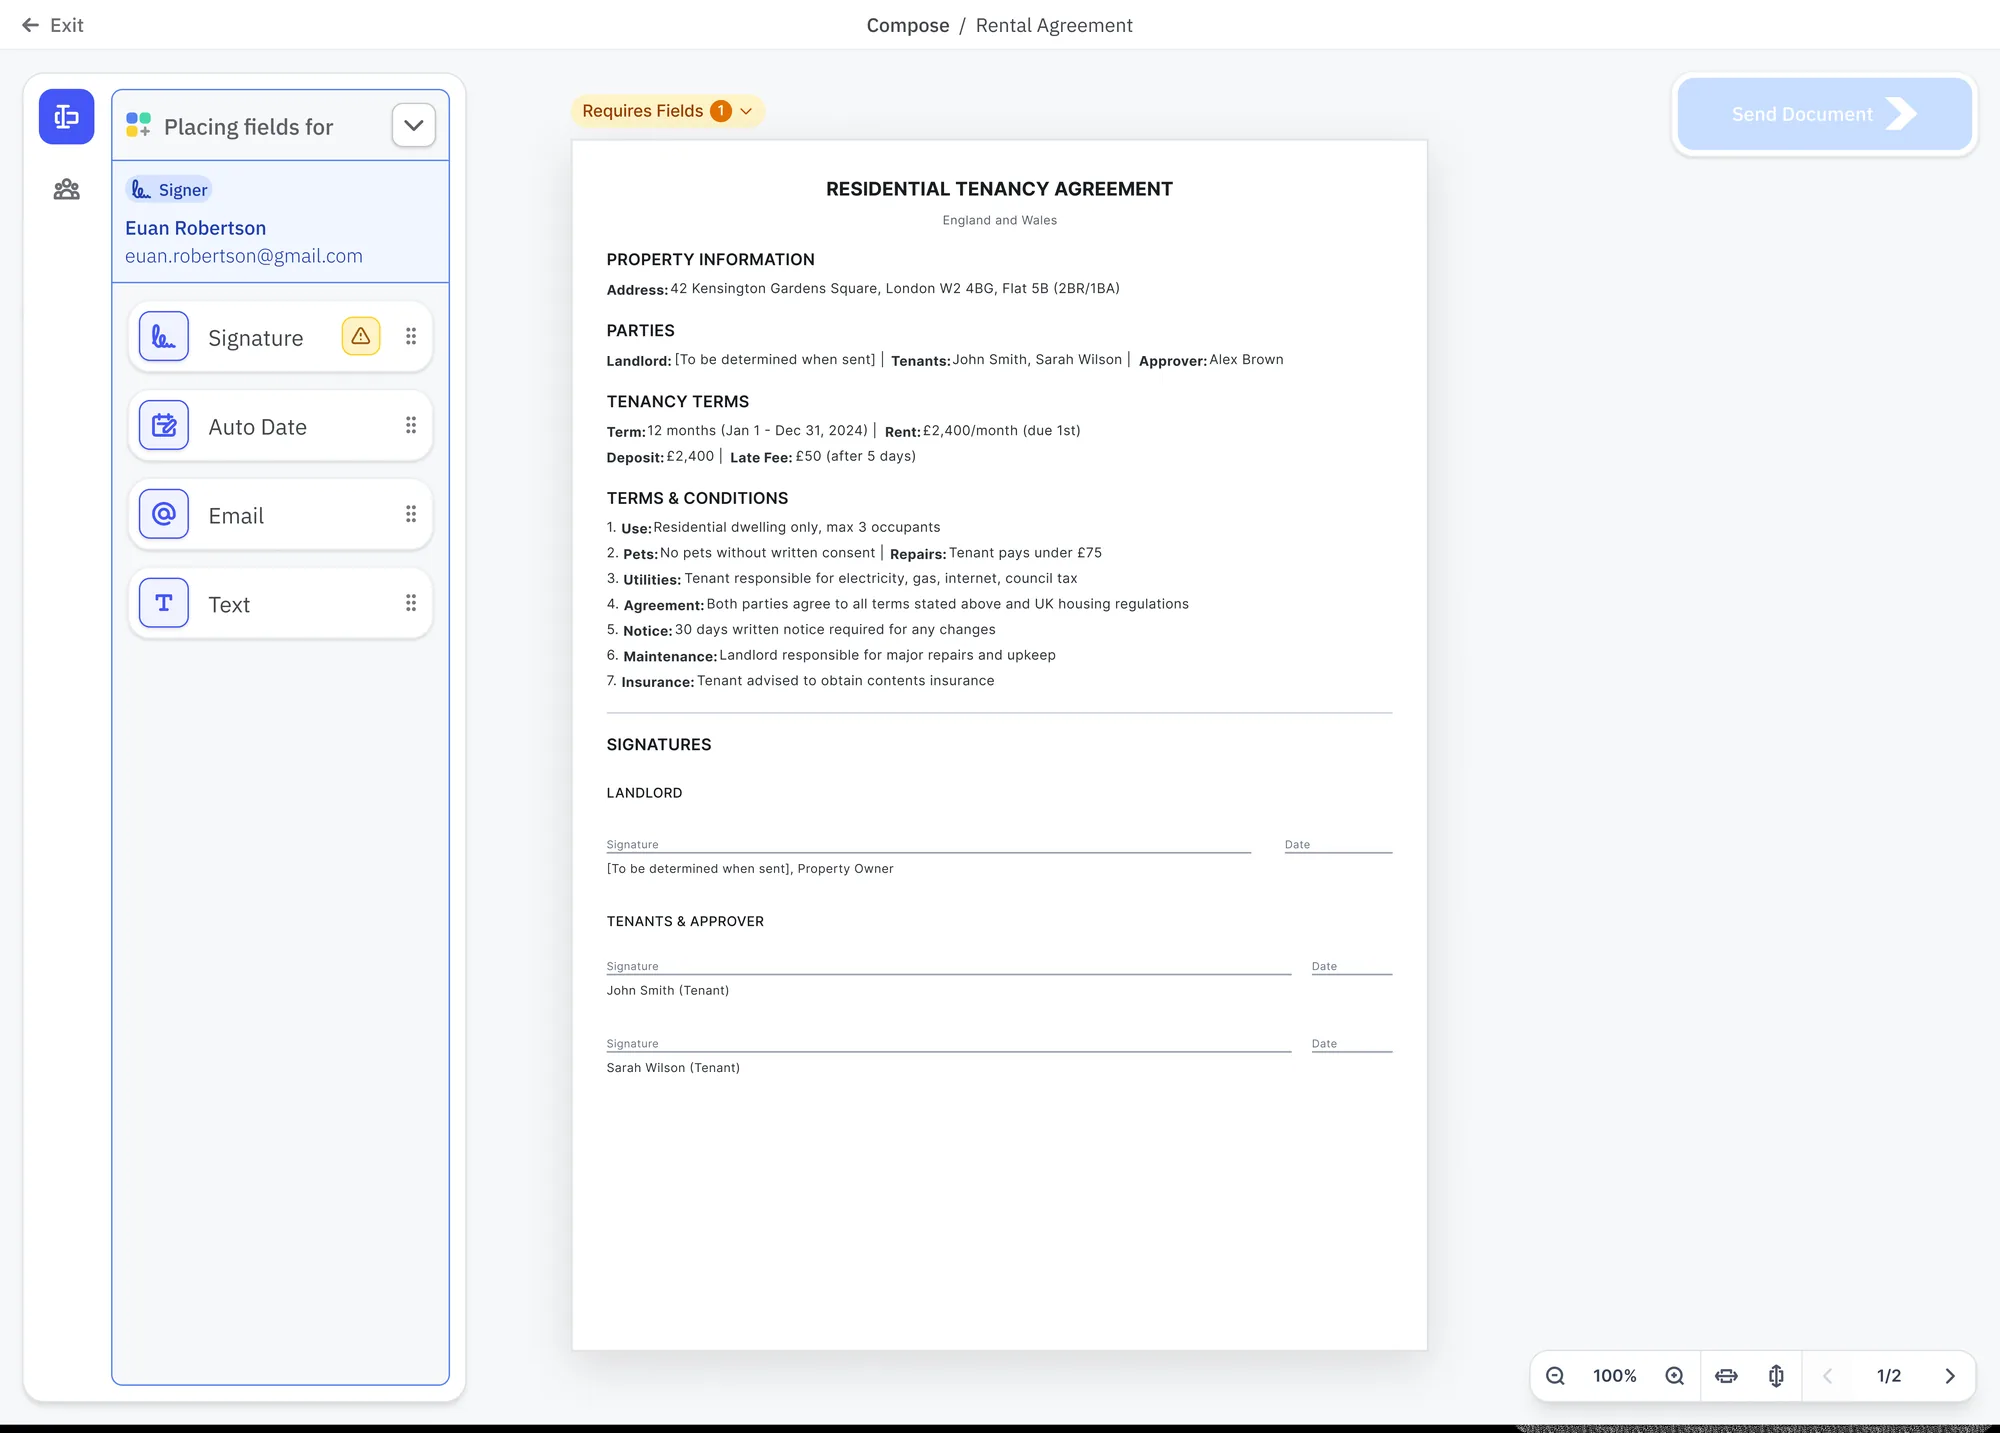
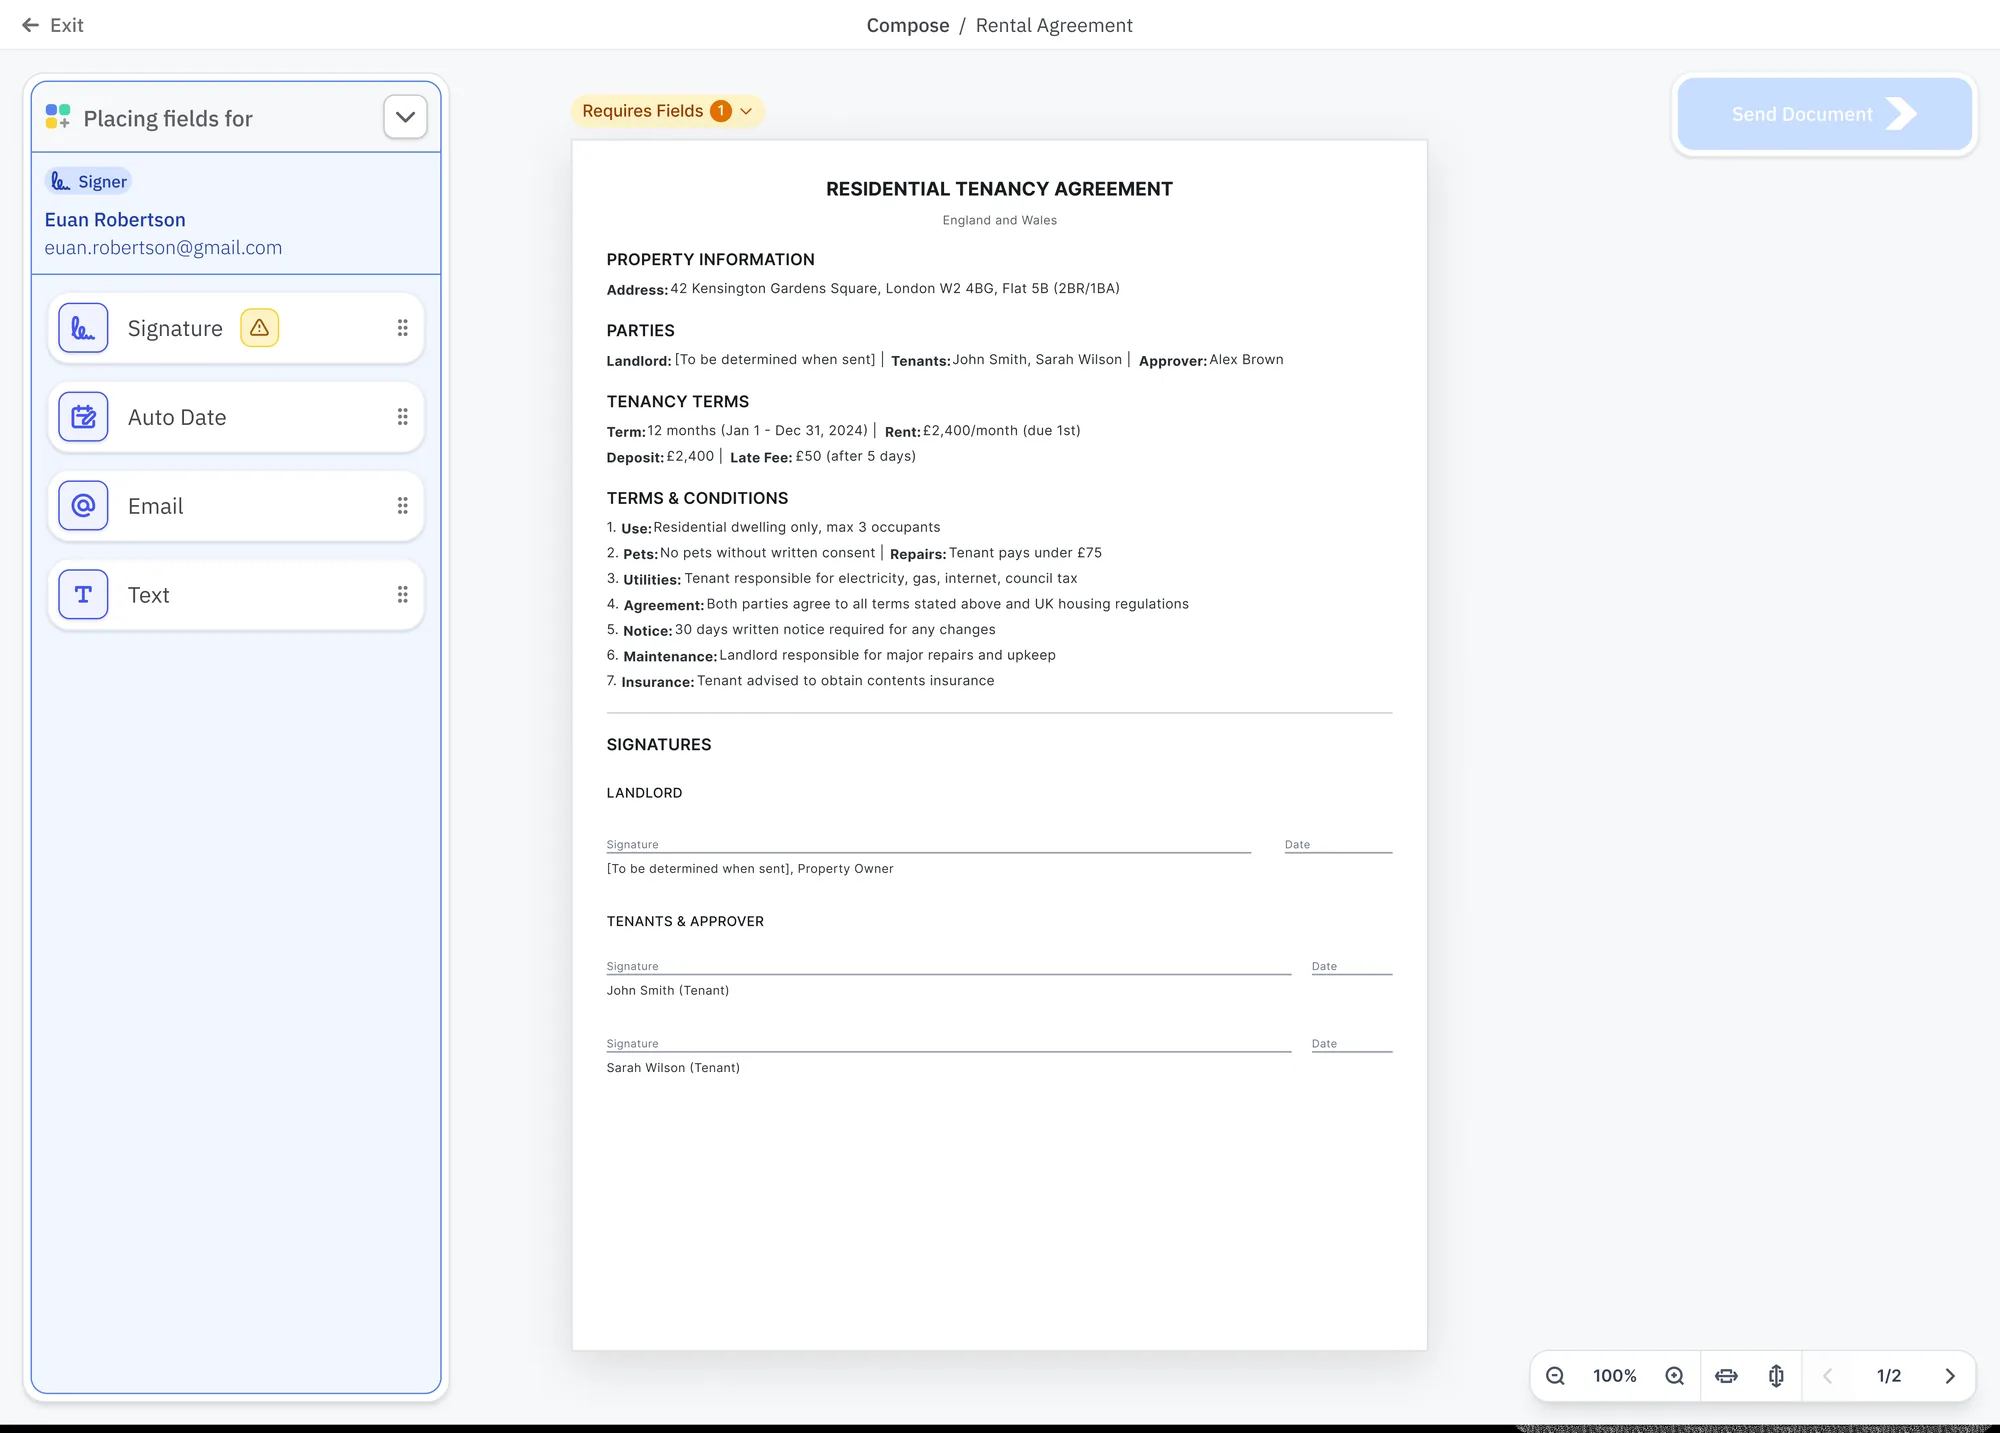
Remove Quick Send version 20, leaving 23 screens
Claude-Session: https://claude.ai/code/session_014sezJqAyiVMuUZgAteEGKh

Changed region(s): [[0.0, 0.0614, 0.217, 0.4606], [0.062, 0.9518, 0.217, 0.9826]]

diff --git a/src/process.ts b/src/process.ts
@@ -32,7 +32,7 @@ export type Stage = {
 };
 
 // What each Quick Send version changed, keyed by version number (1 is the
-// oldest, 24 the final design). Versions left out show prompts in the pop-up.
+// oldest, 23 the final design). Versions left out show prompts in the pop-up.
 const declutter = "Decluttering";
 const signatureOnly = "Signature only";
 const recipientsFirst = "Recipients first";
@@ -137,25 +137,20 @@ const quickSendDetails: Record<number, { stage?: string; change?: string; feedba
   },
   20: {
     stage: refining,
-    change: "The sidebar was simplified further.",
-    feedback: "The UI could still be simpler.",
-  },
-  21: {
-    stage: refining,
     change: "The icon rail went, leaving the sidebar as a list of your recipients. An edit button appears when you hover a card.",
     feedback: "Keep simplifying the sidebar.",
   },
-  22: {
+  21: {
     stage: refining,
     change: "Every recipient shows in the sidebar at all times with their signature field. Other field types sit under More Field Types.",
     feedback: "With several recipients, it wasn't clear that each one needed fields placing.",
   },
-  23: {
+  22: {
     stage: refining,
     change: "Requires Fields moved into the sidebar, and selecting a recipient expands their card to show all their fields.",
     feedback: "Requires Fields scrolled away with the document, and most people send more than a signature, so More Field Types was an extra click.",
   },
-  24: {
+  23: {
     stage: "Final design",
     change: "Red alerts, three default fields (more in team settings), recipients and document settings in modals, plus undo and redo.",
     feedback: "Yellow alerts didn't read as a must-do, and users asked for undo and redo.",
@@ -243,19 +238,16 @@ const quickSendPins: Record<number, { x: number; y: number; note: string }[]> = 
     { x: 90, y: 8, note: "Send stands alone as the final action." },
   ],
   20: [
-    { x: 20, y: 80, note: "The sidebar, simplified further." },
-  ],
-  21: [
     { x: 11, y: 10, note: "The icon rail is gone. The sidebar is just your recipients." },
   ],
-  22: [
+  21: [
     { x: 19, y: 14, note: "Every recipient shown at all times, with More Field Types for the rest." },
   ],
-  23: [
+  22: [
     { x: 19, y: 8, note: "Requires Fields now lives in the sidebar." },
     { x: 12, y: 30, note: "Selecting a recipient expands their card to show all their fields." },
   ],
-  24: [
+  23: [
     { x: 17, y: 26, note: "Alerts turned red, so they read as a must-do." },
     { x: 12, y: 37, note: "Three default fields. More can be switched on in team settings." },
     { x: 20, y: 92, note: "Recipients and document settings open in modals." },
@@ -264,12 +256,12 @@ const quickSendPins: Record<number, { x: number; y: number; note: string }[]> = 
 };
 
 // Every Quick Send screen, oldest first, in public/work/quick-send/iterations/.
-const quickSendIterations: Extract<Block, { type: "iterations" }>["items"] = Array.from({ length: 24 }, (_, i) => ({
+const quickSendIterations: Extract<Block, { type: "iterations" }>["items"] = Array.from({ length: 23 }, (_, i) => ({
   image: {
     src: `/work/quick-send/iterations/${String(i + 1).padStart(2, "0")}.webp`,
     w: 2000,
     h: 1430,
-    alt: i === 23 ? "Quick Send, the final design" : `Quick Send, version ${i + 1} of 24`,
+    alt: i === 22 ? "Quick Send, the final design" : `Quick Send, version ${i + 1} of 23`,
   },
   ...quickSendDetails[i + 1],
   pins: quickSendPins[i + 1],
@@ -395,7 +387,7 @@ export const stages: Stage[] = [
     blocks: [
       {
         type: "iterations",
-        eyebrow: "24 versions",
+        eyebrow: "23 versions",
         heading: "From first prototype to the final design.",
         body: "Drag the bar to step through every version of Quick Send, oldest first, and see what each round of feedback changed.",
         items: quickSendIterations,
